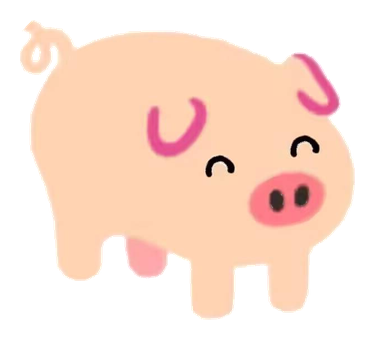
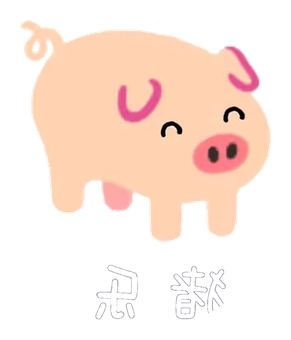
修复飘动模式猪腿显示不完整

diff --git a/tools/prepare_assets.py b/tools/prepare_assets.py
@@ -39,8 +39,8 @@ STATES = {
         "crop": (0, 0, 1012, 1024),
         "mode": "white",
         "remove_colors": [(84, 71, 101)],
-        "mask_ellipse": (0.52, 0.54, 0.38, 0.40),
-        "mask_bottom": 0.82,
+        "mask_ellipse": (0.52, 0.54, 0.38, 0.44),
+        "mask_bottom": 0.97,
     },
     "sleepy": {
         "file": "Camera_1040g3k0324i5e4csn42g5q51aeb6c5mr79h8b18.jpg",
